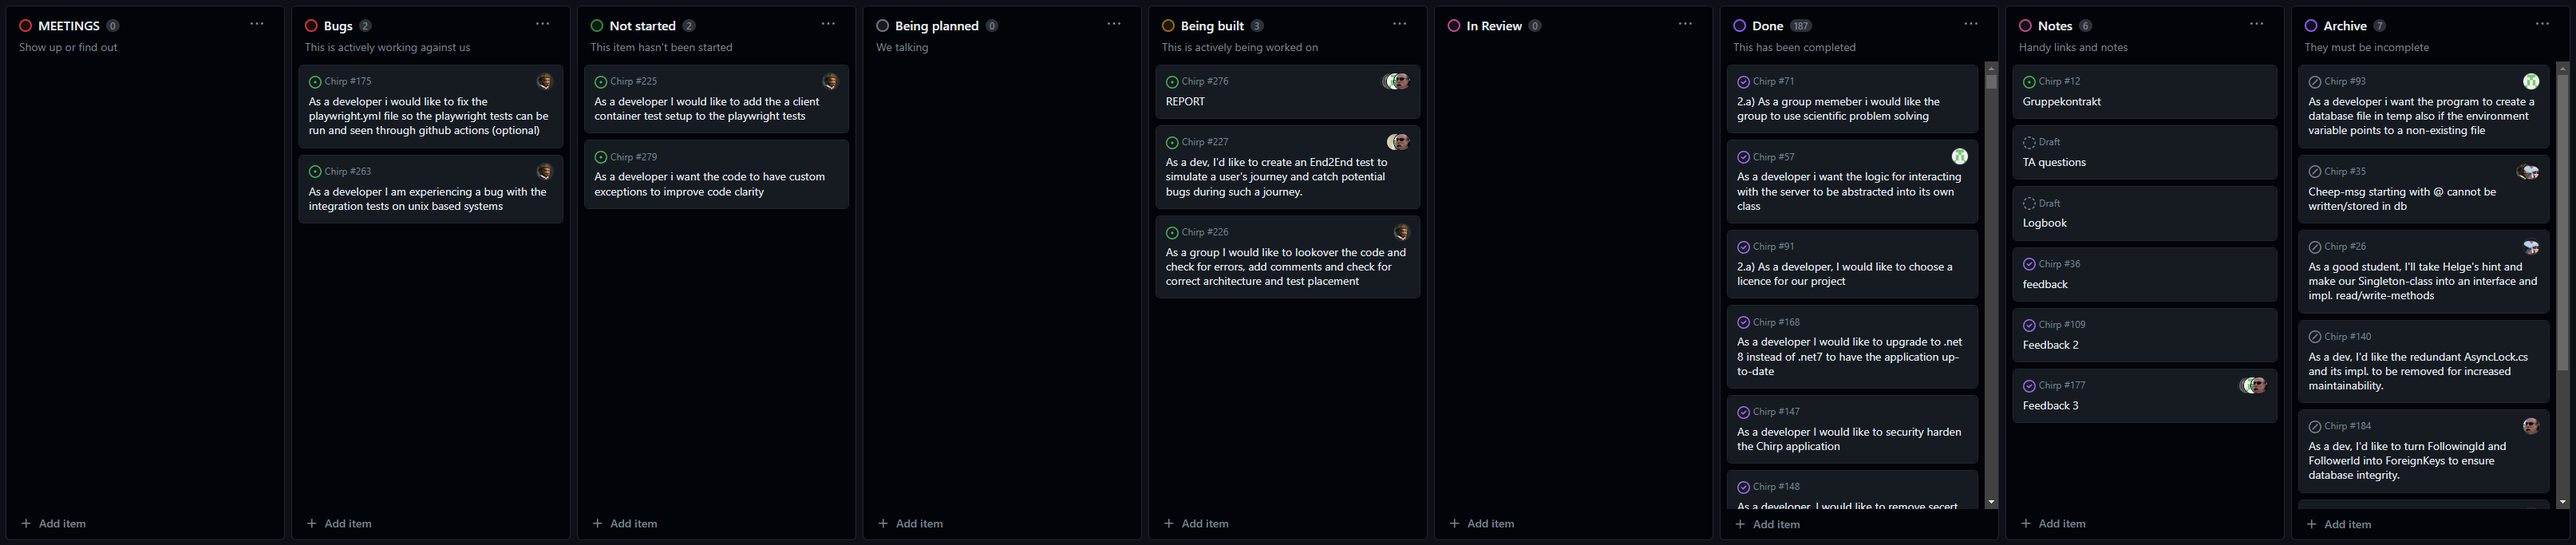
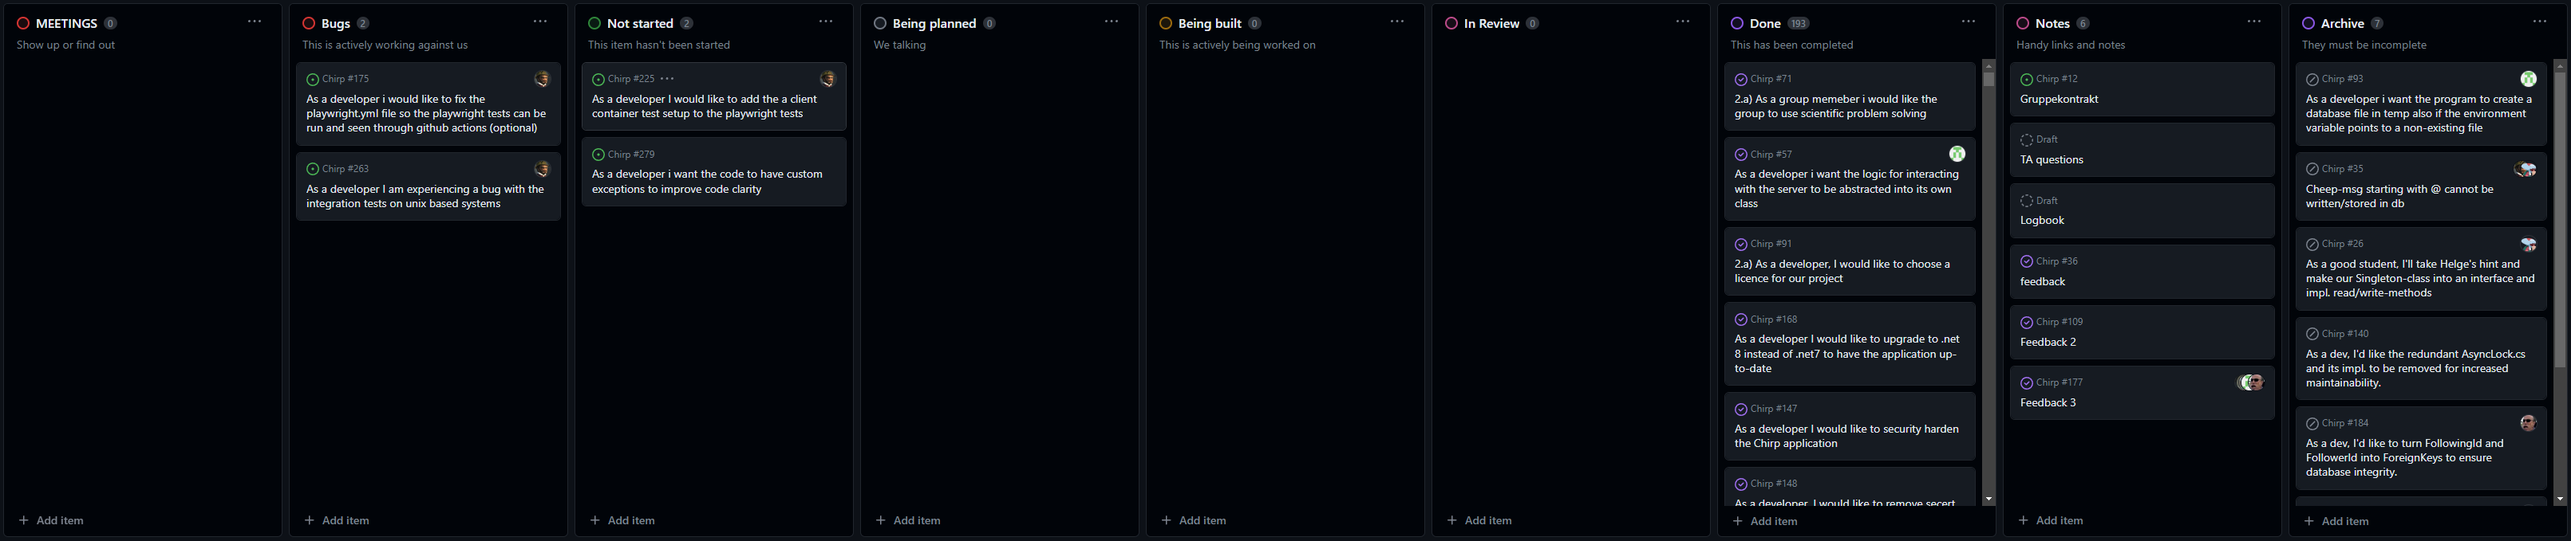
Add project board to report

diff --git a/docs/report.md b/docs/report.md
@@ -132,7 +132,7 @@ Deployment was done on Microsoft Azure using their web app and database features
 
 ## Team work
 
-//TODO: Add picture of project board 
+![Project board](images/projectboard.PNG)
 
 Above is an image of the project board for our chirp project. While the vast majority of issues are done and closed, some issues are still open.
 
